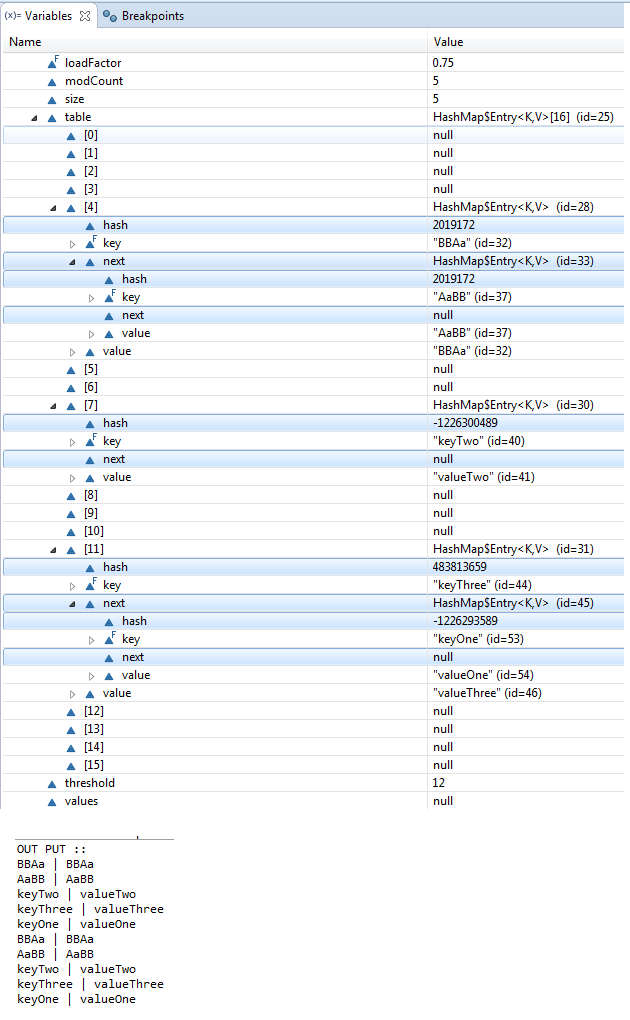
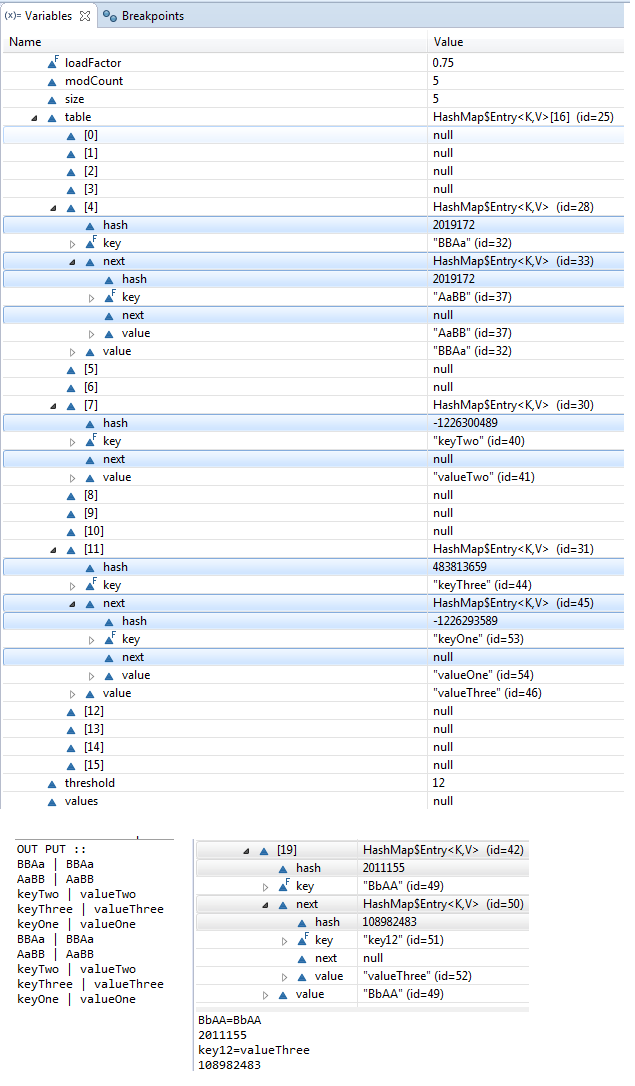
mapinternals
after hash, index will decide the position of entry<K,V>.
Even hash are diff, there is a possible to set two entries in a same
index
BbAA=BbAA
2011155
key12=valueThree
108982483

Changed region(s): [[0.0, 0.0, 0.9952, 1.0], [0.9651, 0.0, 0.9952, 0.0304], [0.0, 0.1216, 0.0302, 0.152]]

diff --git a/src/com/corejava/collections/map/HashMapInternals.java b/src/com/corejava/collections/map/HashMapInternals.java
@@ -18,11 +18,24 @@ public class HashMapInternals {
 		 * 
 		 */
 		Map<String,String> map = new HashMap<>();
-		map.put("keyOne", "valueOne");
-		map.put("keyTwo", "valueTwo");
-		map.put("keyThree", "valueThree");
+		map.put("key1", "valueOne");
+		map.put("key2", "valueTwo");
+		map.put("key3", "valueThree");
+		map.put("key4", "valueThree");
+		map.put("key5", "valueThree");
+		map.put("key6", "valueThree");
+		map.put("key8", "valueThree");
+		map.put("key9", "valueThree");
+		map.put("key10", "valueThree");
+		map.put("key11", "valueThree");
+		map.put("key12", "valueThree");
+		map.put("key13", "valueThree");
+		//map.put("key14", "valueThree");
+		//map.put("key15", "valueThree");
 		map.put("AaBB", "AaBB");
 		map.put("BBAa", "BBAa");
+		map.put("BbAA", "BbAA");
+		map.put("AABb", "AABb");
 		System.out.println("OUT PUT ::");
 		for (Map.Entry<String, String> enter : map.entrySet()) {
 			// enter.setValue("temp"); - is valid
